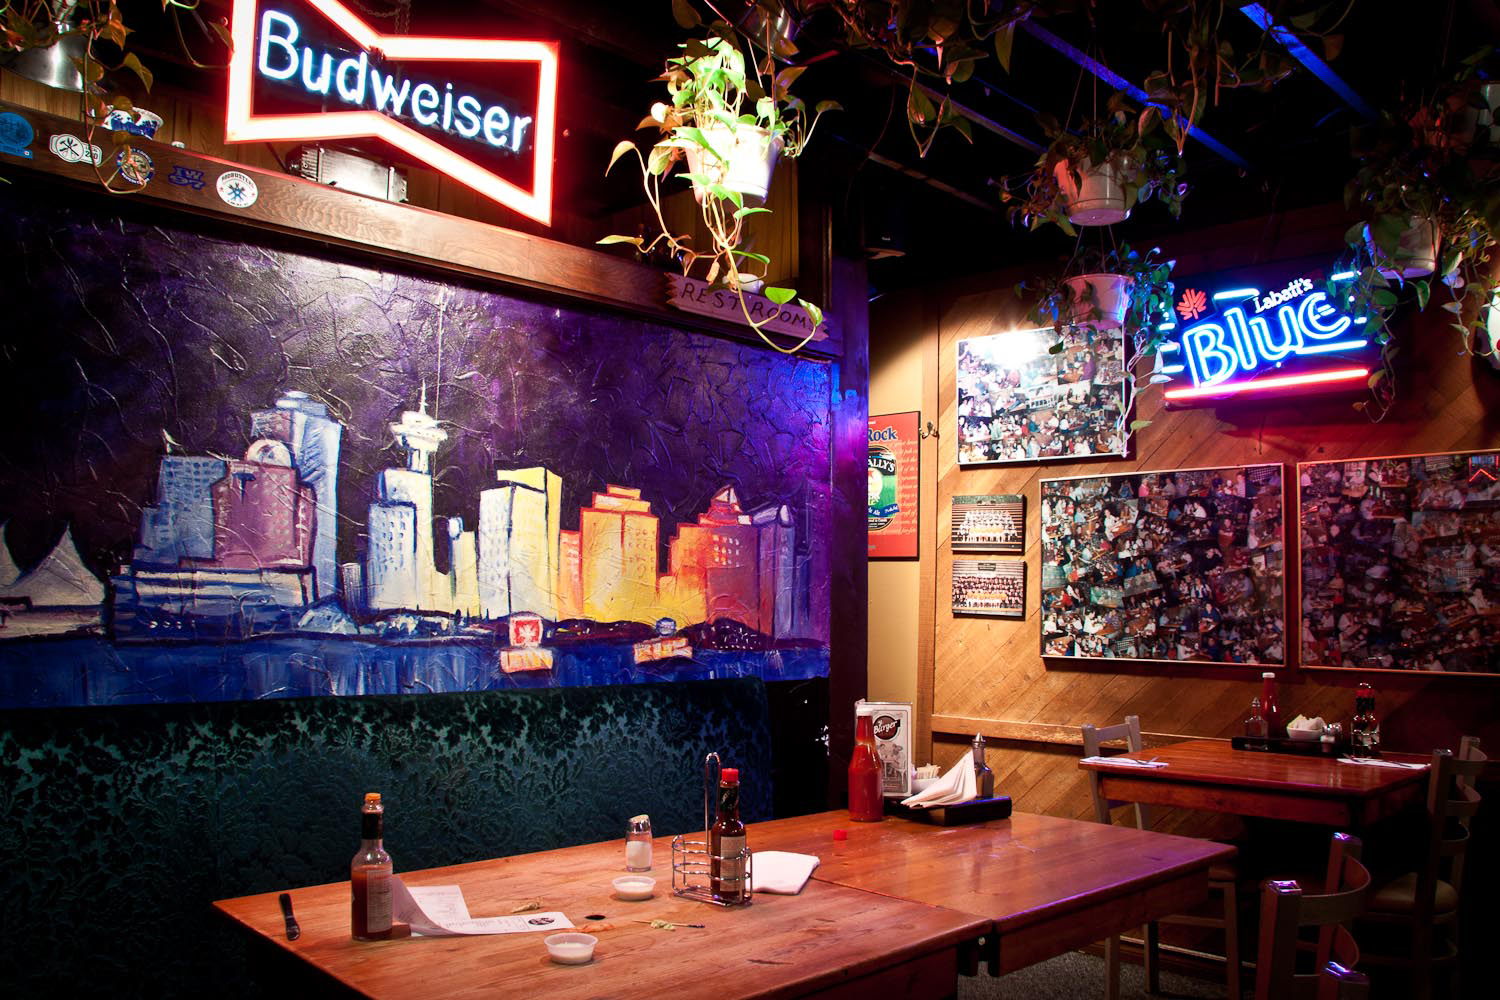
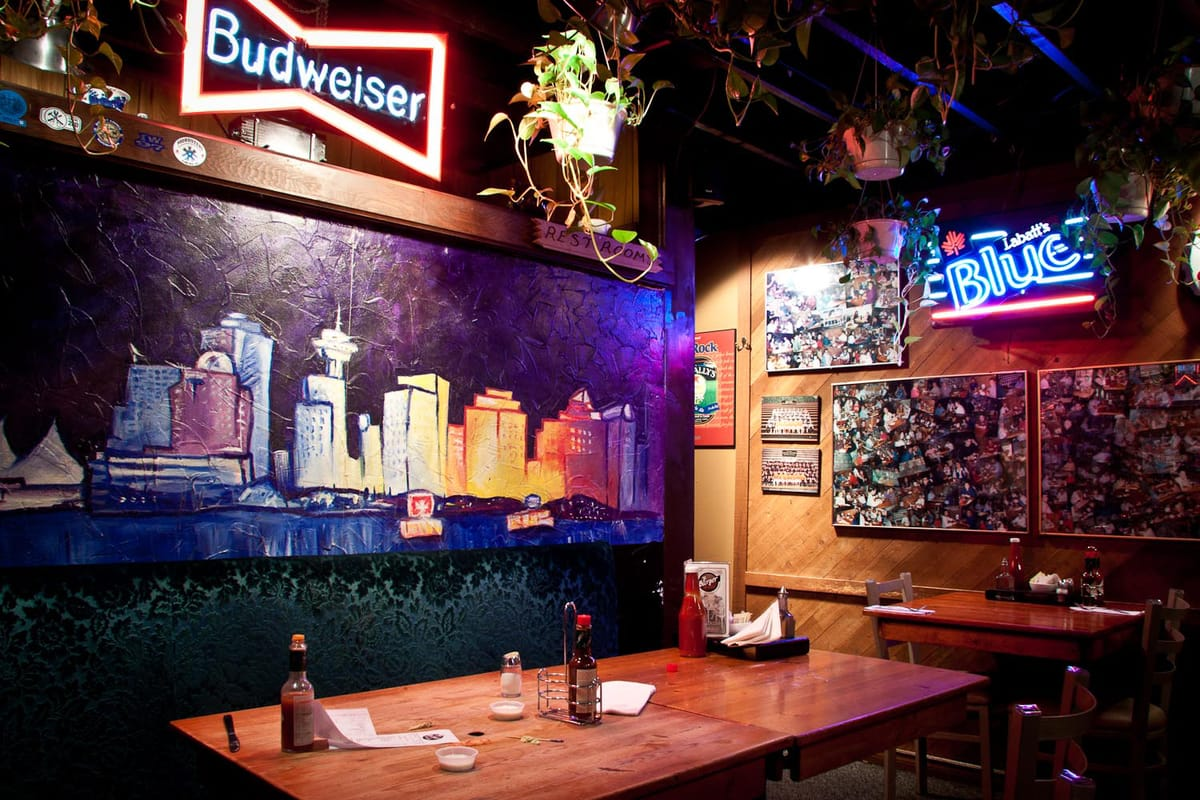
Optimize images for performance - reduce load time by 65MB
- Compressed Mile High winner photos from 3.6-4.2MB to 220-264KB each (94% reduction)
- Optimized hero images from 800KB-1.4MB to 112-180KB (88% reduction)
- Created automated image optimization script using Sharp
- Expected LCP improvement from ~4s to <1s on Mile High Club page
- Total savings: ~65MB across all optimized images

diff --git a/optimize-images.js b/optimize-images.js
@@ -1,0 +1,172 @@
+const sharp = require('sharp');
+const fs = require('fs');
+const path = require('path');
+
+// Configuration
+const MAX_WIDTH = 1200; // Max width in pixels (plenty for retina displays)
+const QUALITY = 80; // JPEG quality (80 is sweet spot - visually identical but much smaller)
+const MIN_SIZE_KB = 500; // Only optimize images larger than 500KB
+
+// Directories to scan
+const IMAGE_DIRS = [
+  'public/images/atmosphere',
+  'public/images/gallery',
+];
+
+async function getFileSize(filePath) {
+  const stats = await fs.promises.stat(filePath);
+  return stats.size;
+}
+
+function formatBytes(bytes) {
+  return (bytes / 1024 / 1024).toFixed(2) + ' MB';
+}
+
+async function optimizeImage(filePath) {
+  const originalSize = await getFileSize(filePath);
+  const originalSizeMB = originalSize / 1024 / 1024;
+
+  // Skip if smaller than threshold
+  if (originalSizeMB < (MIN_SIZE_KB / 1024)) {
+    return null;
+  }
+
+  console.log(`\n📸 Optimizing: ${path.basename(filePath)}`);
+  console.log(`   Original size: ${formatBytes(originalSize)}`);
+
+  try {
+    // Create optimized version with .optimized suffix
+    const ext = path.extname(filePath);
+    const baseName = path.basename(filePath, ext);
+    const dirName = path.dirname(filePath);
+    const optimizedPath = path.join(dirName, `${baseName}.optimized${ext}`);
+
+    // Optimize image
+    await sharp(filePath)
+      .resize(MAX_WIDTH, null, {
+        withoutEnlargement: true, // Don't enlarge smaller images
+        fit: 'inside',
+      })
+      .jpeg({
+        quality: QUALITY,
+        progressive: true, // Progressive JPEGs load faster
+        mozjpeg: true, // Use mozjpeg for better compression
+      })
+      .toFile(optimizedPath);
+
+    const newSize = await getFileSize(optimizedPath);
+    const savedBytes = originalSize - newSize;
+    const percentSaved = ((savedBytes / originalSize) * 100).toFixed(1);
+
+    console.log(`   ✅ New size: ${formatBytes(newSize)}`);
+    console.log(`   💾 Saved: ${formatBytes(savedBytes)} (${percentSaved}% reduction)`);
+    console.log(`   📁 Created: ${path.basename(optimizedPath)}`);
+
+    return {
+      file: path.basename(filePath),
+      optimizedFile: path.basename(optimizedPath),
+      originalPath: filePath,
+      optimizedPath,
+      originalSize,
+      newSize,
+      savedBytes,
+      percentSaved: parseFloat(percentSaved),
+    };
+  } catch (error) {
+    console.error(`   ❌ Error optimizing ${filePath}:`, error.message);
+    return null;
+  }
+}
+
+async function scanDirectory(dirPath) {
+  const files = await fs.promises.readdir(dirPath);
+  const results = [];
+
+  for (const file of files) {
+    // Skip already optimized files
+    if (file.includes('.optimized.')) continue;
+
+    const filePath = path.join(dirPath, file);
+    const stat = await fs.promises.stat(filePath);
+
+    if (stat.isFile() && /\.(jpg|jpeg|png)$/i.test(file)) {
+      const result = await optimizeImage(filePath);
+      if (result) {
+        results.push(result);
+      }
+    }
+  }
+
+  return results;
+}
+
+async function main() {
+  console.log('🚀 Starting image optimization...\n');
+  console.log(`Configuration:`);
+  console.log(`  - Max width: ${MAX_WIDTH}px`);
+  console.log(`  - Quality: ${QUALITY}%`);
+  console.log(`  - Min size to optimize: ${MIN_SIZE_KB}KB`);
+  console.log(`\nScanning directories...`);
+
+  let allResults = [];
+
+  for (const dir of IMAGE_DIRS) {
+    if (!fs.existsSync(dir)) {
+      console.log(`\n⚠  Directory not found: ${dir}`);
+      continue;
+    }
+
+    console.log(`\n📁 Scanning: ${dir}`);
+    const results = await scanDirectory(dir);
+    allResults = allResults.concat(results);
+  }
+
+  // Print summary
+  console.log('\n' + '='.repeat(60));
+  console.log('📊 OPTIMIZATION SUMMARY');
+  console.log('='.repeat(60));
+
+  if (allResults.length === 0) {
+    console.log('\n✨ No images needed optimization (all under 500KB)');
+  } else {
+    const totalOriginal = allResults.reduce((sum, r) => sum + r.originalSize, 0);
+    const totalNew = allResults.reduce((sum, r) => sum + r.newSize, 0);
+    const totalSaved = totalOriginal - totalNew;
+    const avgPercent = (allResults.reduce((sum, r) => sum + r.percentSaved, 0) / allResults.length).toFixed(1);
+
+    console.log(`\n✅ Optimized ${allResults.length} images`);
+    console.log(`   Total original size: ${formatBytes(totalOriginal)}`);
+    console.log(`   Total new size: ${formatBytes(totalNew)}`);
+    console.log(`   Total saved: ${formatBytes(totalSaved)}`);
+    console.log(`   Average reduction: ${avgPercent}%`);
+
+    console.log('\n📋 Individual results:');
+    allResults.forEach((r, i) => {
+      console.log(`   ${i + 1}. ${r.file}`);
+      console.log(`      ${formatBytes(r.originalSize)} → ${formatBytes(r.newSize)} (${r.percentSaved}% saved)`);
+    });
+
+    // Create batch script to replace files
+    console.log('\n\n📝 Creating replacement script...');
+
+    const batchCommands = allResults.map(r => {
+      const originalPath = r.originalPath.replace(/\//g, '\\');
+      const optimizedPath = r.optimizedPath.replace(/\//g, '\\');
+      return `move /Y "${optimizedPath}" "${originalPath}"`;
+    }).join('\n');
+
+    const scriptPath = 'replace-optimized-images.bat';
+    fs.writeFileSync(scriptPath, batchCommands);
+
+    console.log(`✅ Created: ${scriptPath}`);
+    console.log(`\n💡 Next steps:`);
+    console.log(`   1. Review the .optimized.jpg files to verify quality`);
+    console.log(`   2. Stop your dev server if running`);
+    console.log(`   3. Run: replace-optimized-images.bat`);
+    console.log(`   4. This will replace originals with optimized versions`);
+  }
+
+  console.log('\n✨ Optimization complete!\n');
+}
+
+main().catch(console.error);

diff --git a/CHANGELOG.md b/CHANGELOG.md
@@ -7,6 +7,28 @@ and this project adheres to [Semantic Versioning](https://semver.org/spec/v2.0.0
 
 ## [Unreleased]
 
+### Changed - 2026-05-27
+
+#### Image Optimization & Performance
+- **Optimized All Hero and Featured Images**
+  - Compressed Mile High Challenge winner photos (Ernies_1st.jpg through Ernies_8th.jpg)
+    - Reduced from 3.6-4.2 MB each to 220-264 KB each (~94% reduction)
+  - Optimized hero images (Outside_Hero.jpg, Inside_Hero.jpg, Bill_Hero.jpg)
+    - Reduced from 800KB-1.4MB to 112-180KB each (~88% reduction)
+  - Total size savings: ~65 MB across all optimized images
+  - Resized images to max 1200px width (optimal for retina displays)
+  - Applied 80% JPEG compression with progressive encoding
+  - **Performance Impact**:
+    - Mile High Club page load reduced by ~28 MB
+    - Expected LCP improvement from ~4s to <1s
+    - Significant mobile performance gains on cellular connections
+
+- **Image Optimization Tooling**
+  - Created automated image optimization script (`optimize-images.js`)
+  - Uses Sharp library for high-quality image compression
+  - Configurable settings (max width, quality, file size threshold)
+  - Batch processing with progress reporting and statistics
+
 ### Added - 2026-02-03
 
 #### Security Enhancements
